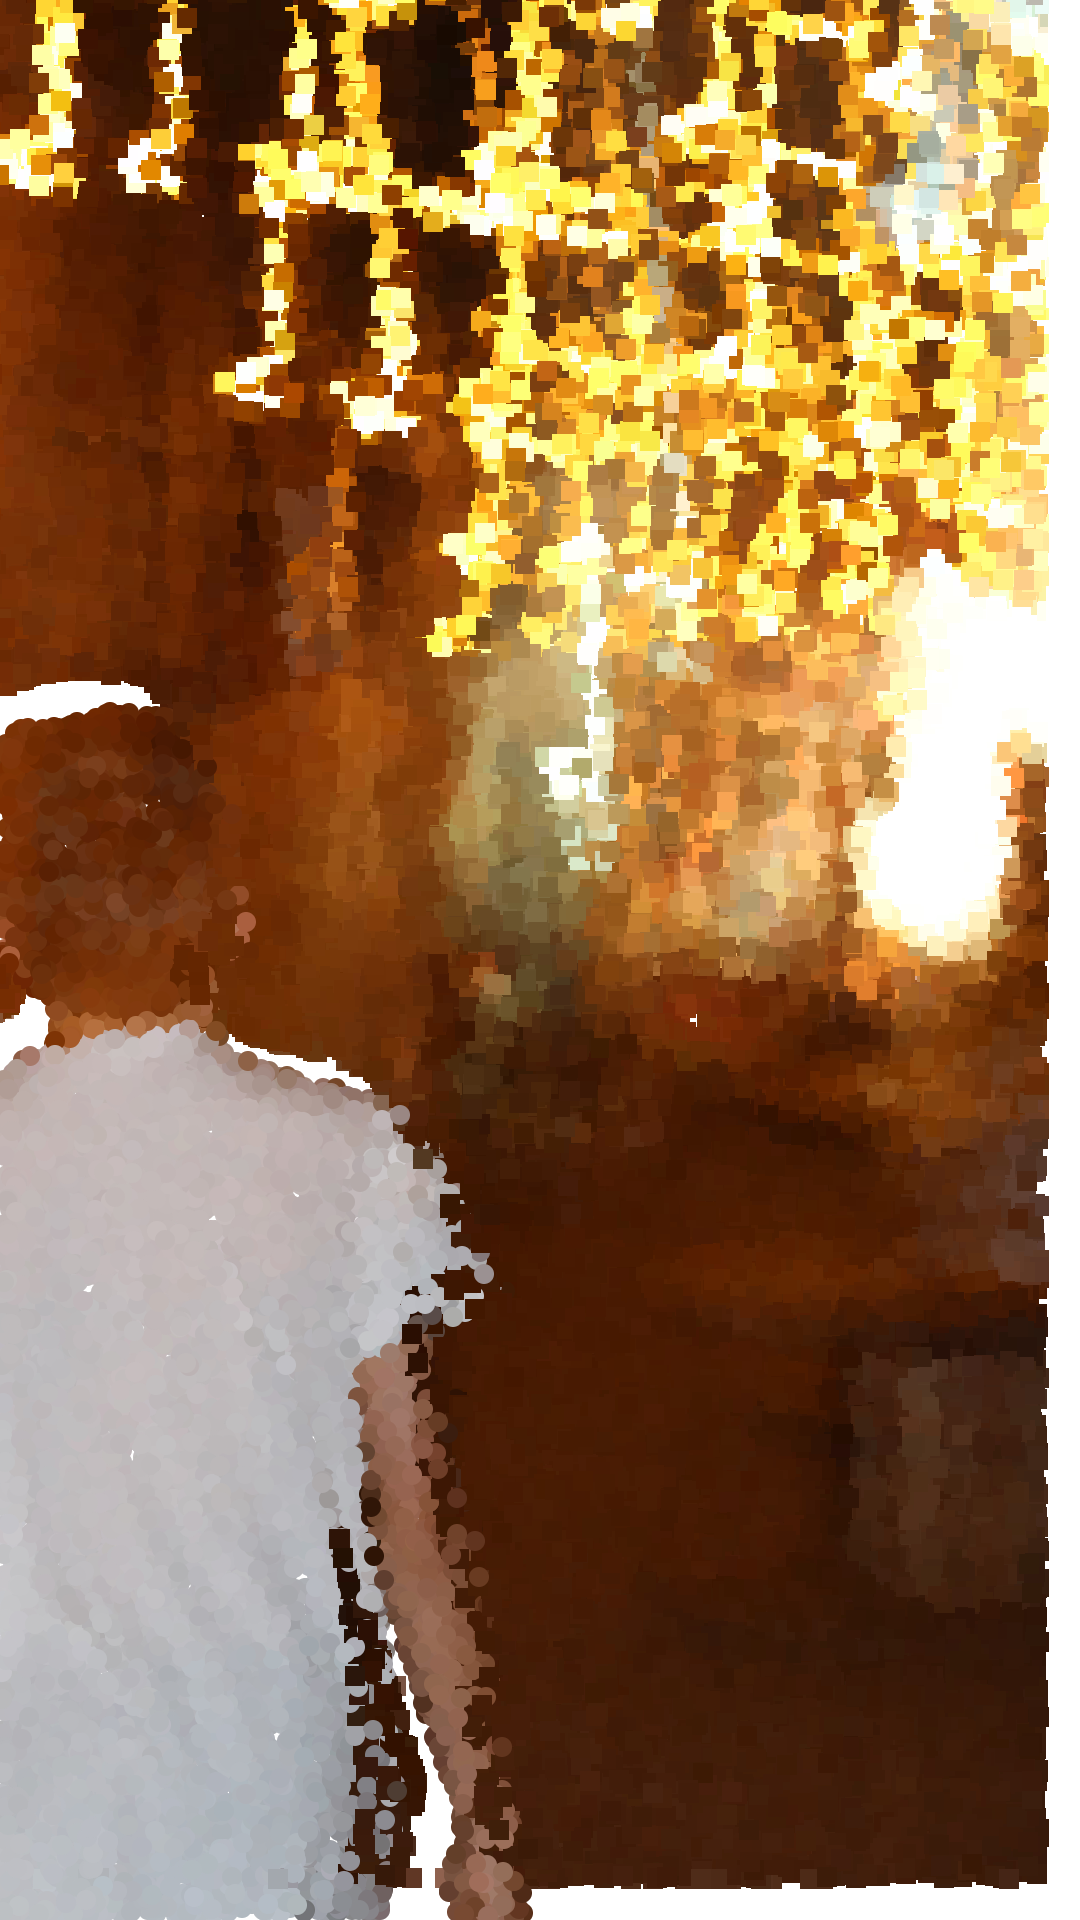
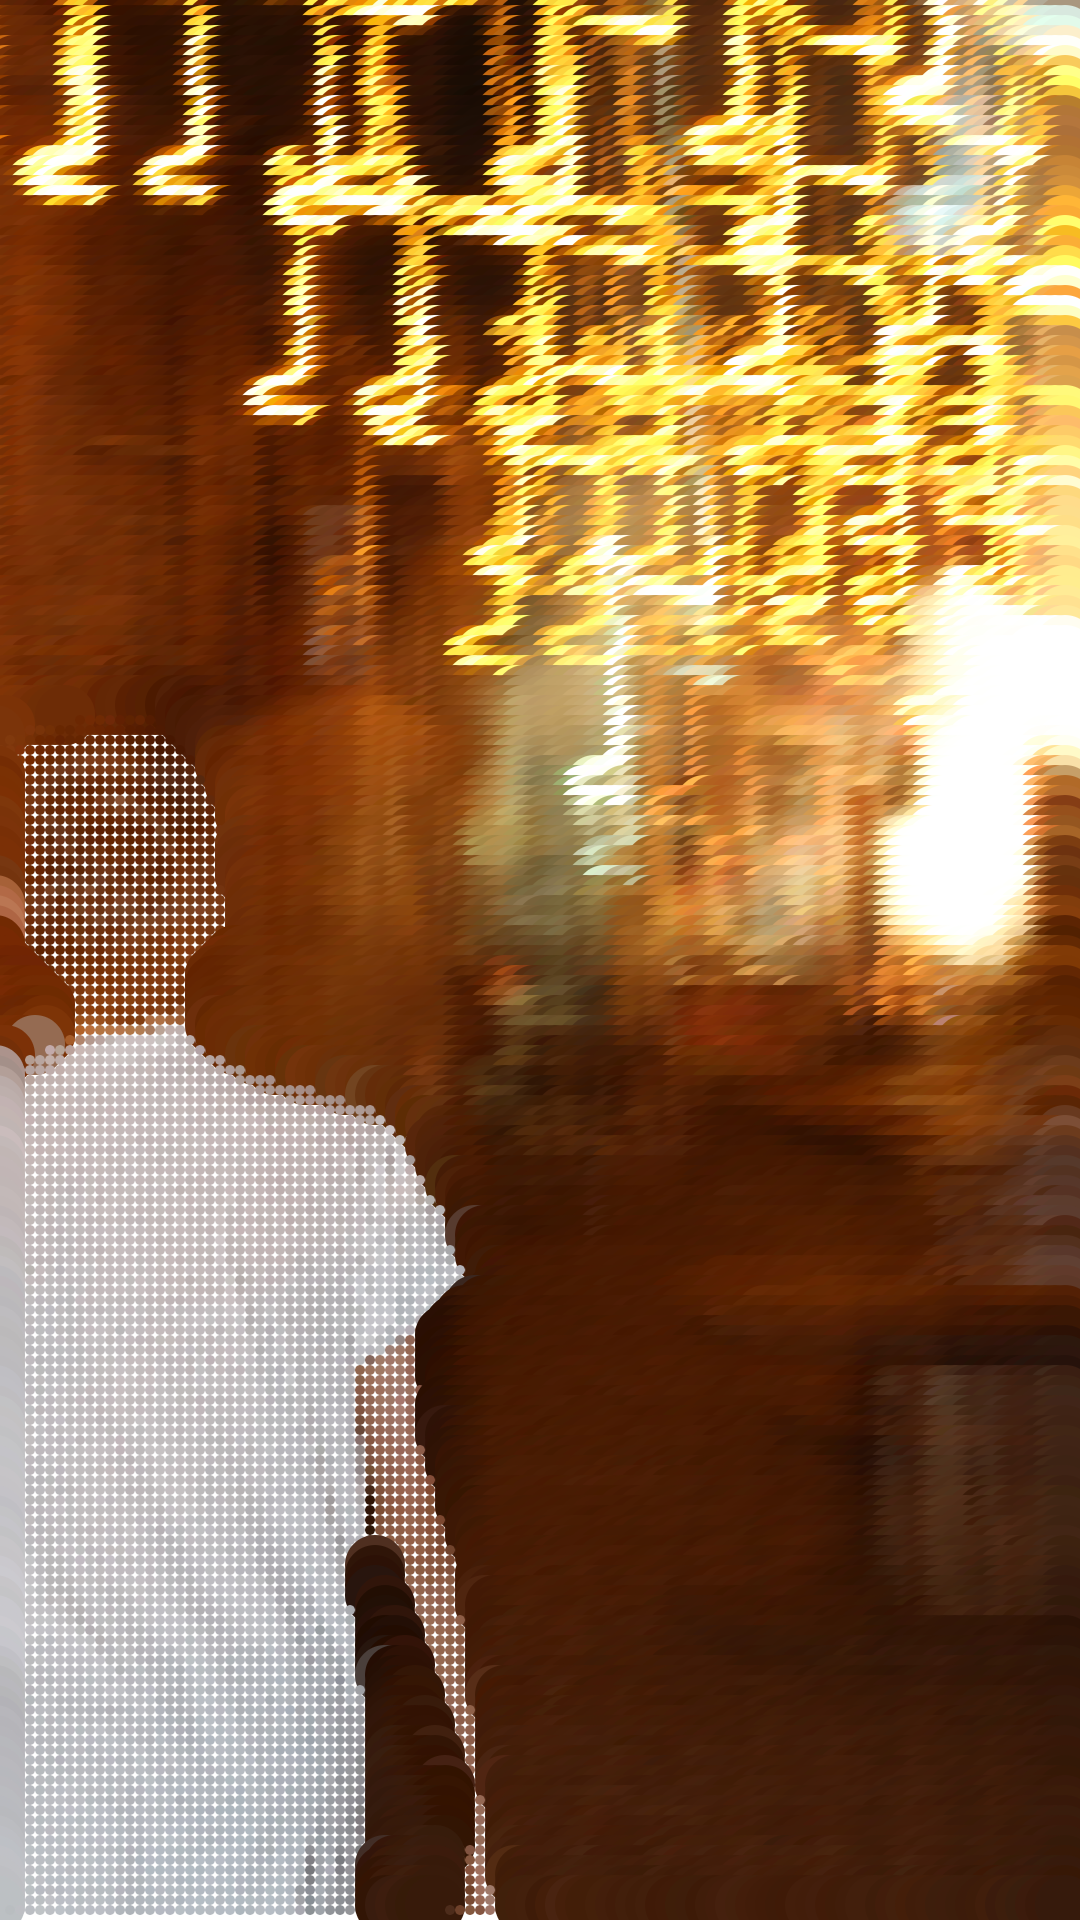
uploading pic 2

diff --git a/sketch.js b/sketch.js
@@ -4,8 +4,8 @@ let renderCounter=0;
 let pointSize = 10;
 
 function preload() {
-  sourceImg = loadImage("input_3.jpg");
-  maskImg = loadImage("mask_3.png");
+  sourceImg = loadImage("input_2.jpg");
+  maskImg = loadImage("mask_2.png");
   //sourceImg = loadImage("input_1.jpg");
 }
 
@@ -37,7 +37,7 @@ function draw () {
       ellipse(x, y, pointSize, pointSize);
     }
     else {
-      rect(x-halfSize, y-halfSize, pointSize, pointSize);    
+      ellipse(x-halfSize, y-halfSize, pointSize+50, pointSize+50);    
     }
   }
   renderCounter = renderCounter + 1;

diff --git a/README.md b/README.md
@@ -1,5 +1,5 @@
 ## Creative Coding 2: Custom Pixel
 
-I am now looking at different ways to display my image and paying around with the different features. I dont think I will try this one again as I dont think it works well with this image. I might look into other images and see if I can see a theme to use for this project. 
+I am looking at different ways to display my image. This works really well with my background however I think it takes away alot from the person in the image. it cuts off off alot of the person in my image however i really like what it is doing for the background with the ellipses 
 
 The images above are photos of Wellington CBD algorithmically processed with a lightly modified version of the [p5.js Pointillism example](https://p5js.org/examples/image-pointillism.html). The masks for each photo highlight various objects. Replace this text with your own which explains the source of your photos, masking, and applied algorithm.
